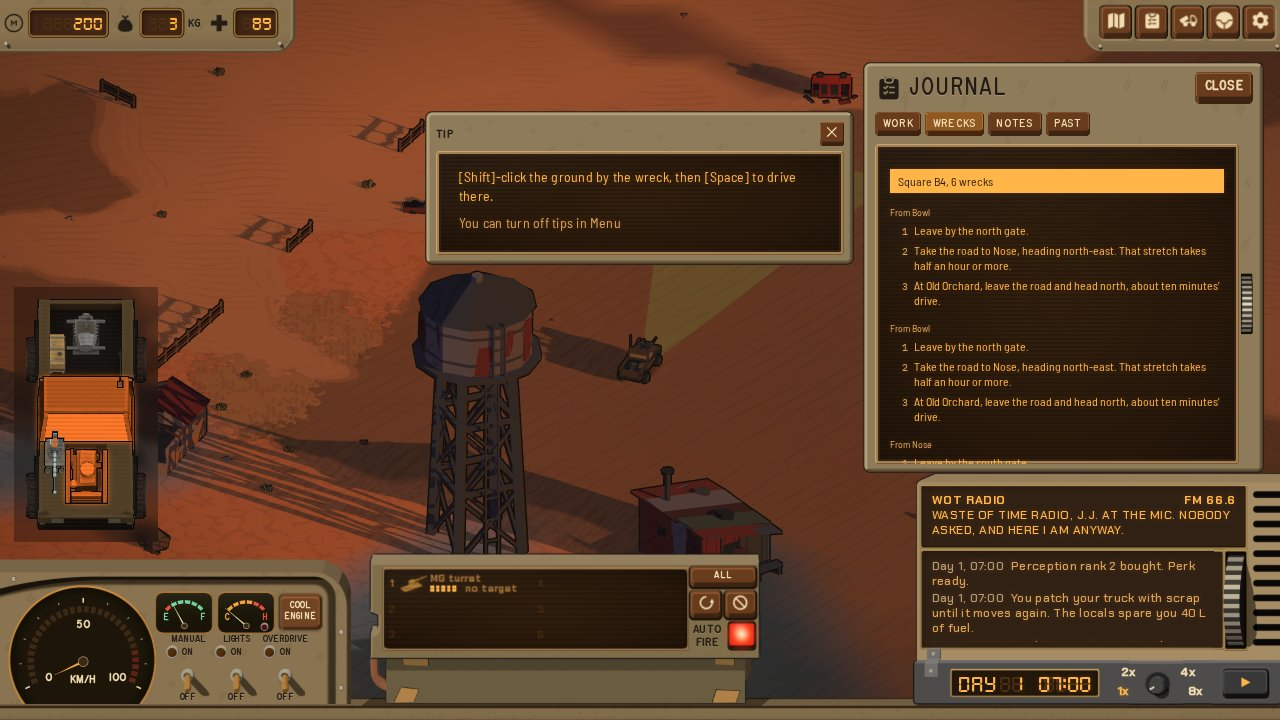
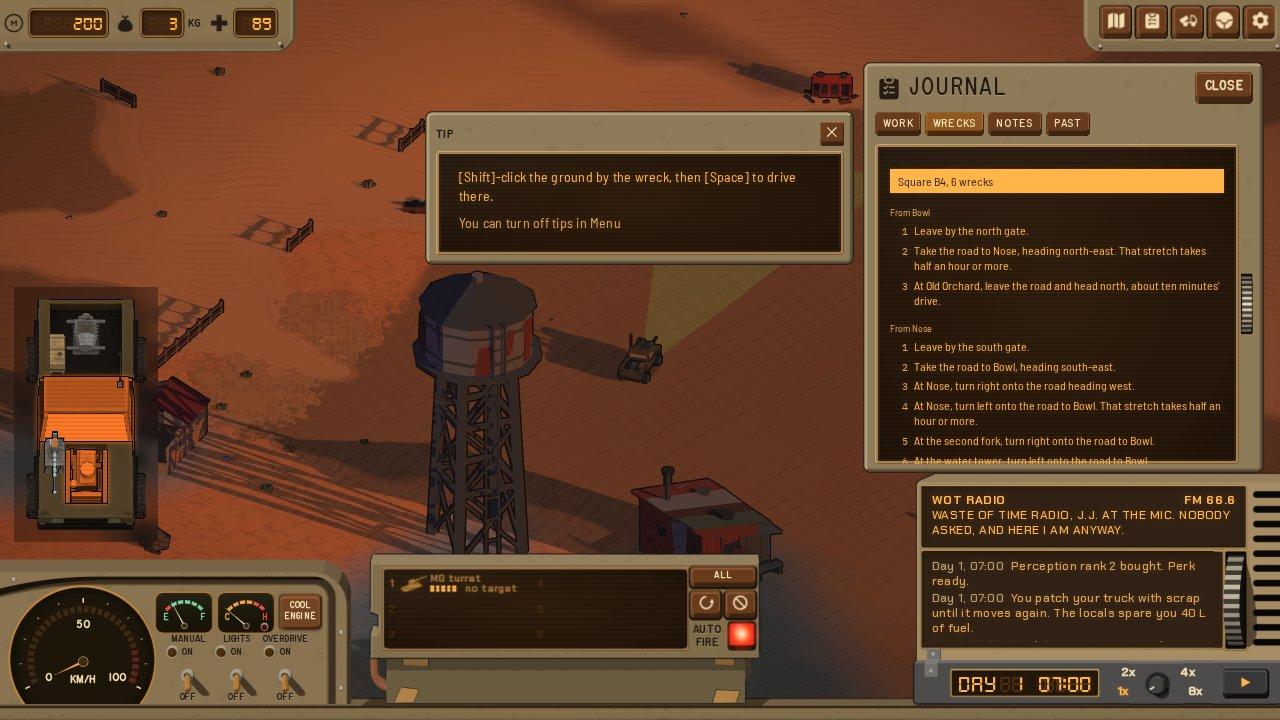
Journal Wrecks tab tells one way for wrecks in a square that share it

Changed region(s): [[0.6875, 0.4583, 0.9688, 0.6417]]

diff --git a/game/src/ui/journal.ts b/game/src/ui/journal.ts
@@ -5,7 +5,7 @@ import { leadOf } from '../sim/claims';
 import { clockOf } from '../sim/sun';
 import type { ClaimContract } from '../sim/salvage';
 import type { DirectionStep, SalvageStock, World } from '../sim/types';
-import { toldWrecks, toldWreckWay } from '../sim/rumors';
+import { toldWrecks, toldWreckWay, type WreckWay } from '../sim/rumors';
 import { gridSquareOf, type GridSquare } from '../sim/map-grid';
 import type { Contract, ContractEnd, PastContract } from '../sim/market';
 import { surveyClue, surveyWay, type SurveyClue, type SurveyContract, type SurveyPoint } from '../sim/survey';
@@ -184,7 +184,7 @@ export class JournalScreen {
     const words = n > 1 ? t('journal.wrecksInSquare', { square: gridSquareText(note.square), n }) : t('journal.wreckSquare', { square: gridSquareText(note.square) });
     const head = el('button', { class: 'screen-line journal-head place-head', 'aria-expanded': open ? 'true' : 'false', onclick: (e: Event) => { this.open('wrecks', note.key); (e.currentTarget as HTMLElement | null)?.blur(); } }, el('span', {}, words));
     if (!open) return el('div', { class: 'journal-place wreck' }, head);
-    return el('div', { class: 'journal-place wreck open' }, head, ...note.stocks.map((stock) => wreckWay(w, stock)));
+    return el('div', { class: 'journal-place wreck open' }, head, ...distinctWays(note.stocks.map((stock) => toldWreckWay(w, stock))).map(wreckWay));
   }
 
   private notesPage(notes: JournalNote[]): HTMLElement {
@@ -221,8 +221,17 @@ function placeWay(w: World, c: SurveyContract, point: SurveyPoint, clue: SurveyC
   return wayGroup(c.shop, way ? wayList(way) : el('div', {}, t('journal.placeBearing', { distance: distanceText(clue.tiles), dir: compassText(clue.rad), site: siteName(clue.landmark) })));
 }
 
-function wreckWay(w: World, stock: SalvageStock): HTMLElement {
-  const way = toldWreckWay(w, stock);
+function distinctWays(ways: WreckWay[]): WreckWay[] {
+  const seen = new Set<string>();
+  return ways.filter((way) => {
+    const key = JSON.stringify(way);
+    if (seen.has(key)) return false;
+    seen.add(key);
+    return true;
+  });
+}
+
+function wreckWay(way: WreckWay): HTMLElement {
   if (way.kind === 'way') return wayGroup(way.town, wayList(way.steps));
   return wayGroup(way.town, el('div', {}, t('journal.placeBearing', { distance: distanceText(way.tiles), dir: compassText(way.rad), site: siteName(way.town) })));
 }

diff --git a/game/src/ui/journal.test.ts b/game/src/ui/journal.test.ts
@@ -315,6 +315,18 @@ describe('journal screen', () => {
     expect(place.all((n) => n.has('place-from'))).toHaveLength(2);
   });
 
+  it('tells one way for wrecks in a square whose way is the same', () => {
+    const w = emptyWorld();
+    const side = gridSquareTiles();
+    w.salvage = [stock('wreck1', { x: side * 2 + 5, y: side * 3 + 5 }), stock('wreck2', { x: side * 2 + 9, y: side * 3 + 9 })];
+    w.player.rumored = ['wreck1', 'wreck2'];
+    noWreckWay.on = true;
+
+    const [place] = wreckPlaces(journalOf(w).root);
+
+    expect(place.all((n) => n.has('place-way'))).toHaveLength(1);
+  });
+
   it('says how far and which way a wreck lies from a town when no town tells the way', () => {
     const w = emptyWorld();
     w.salvage = [stock('wreck1', { x: 60, y: 60 })];
